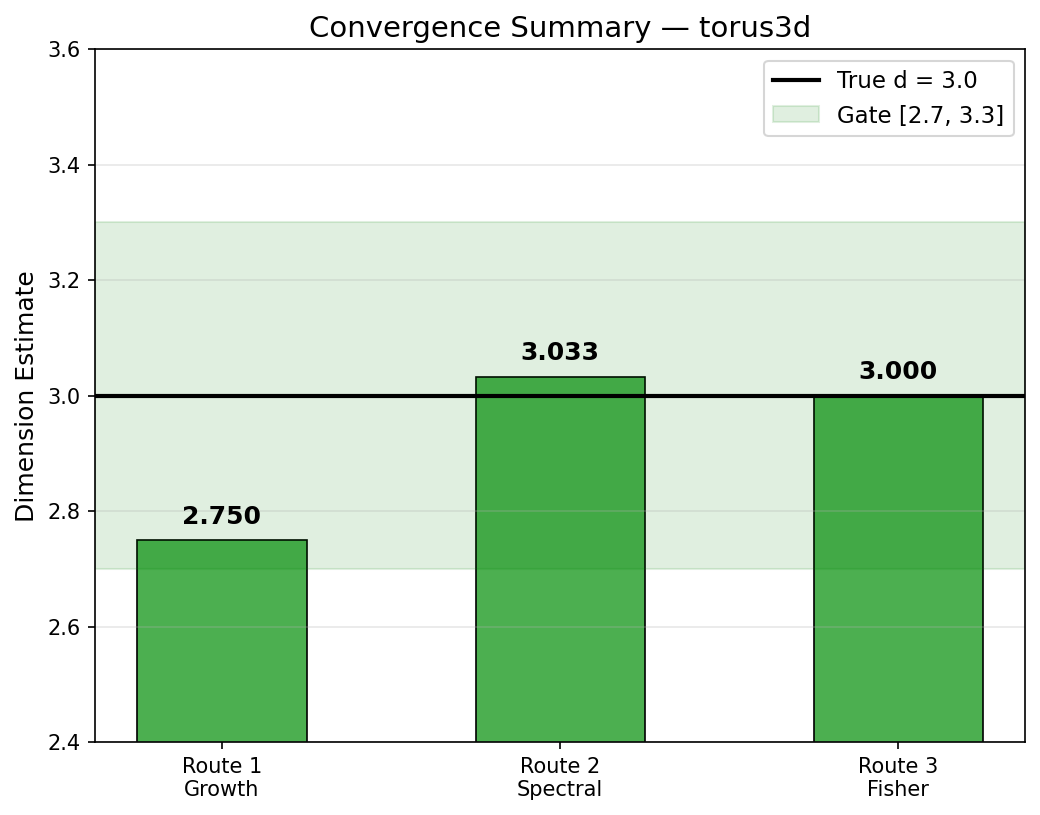
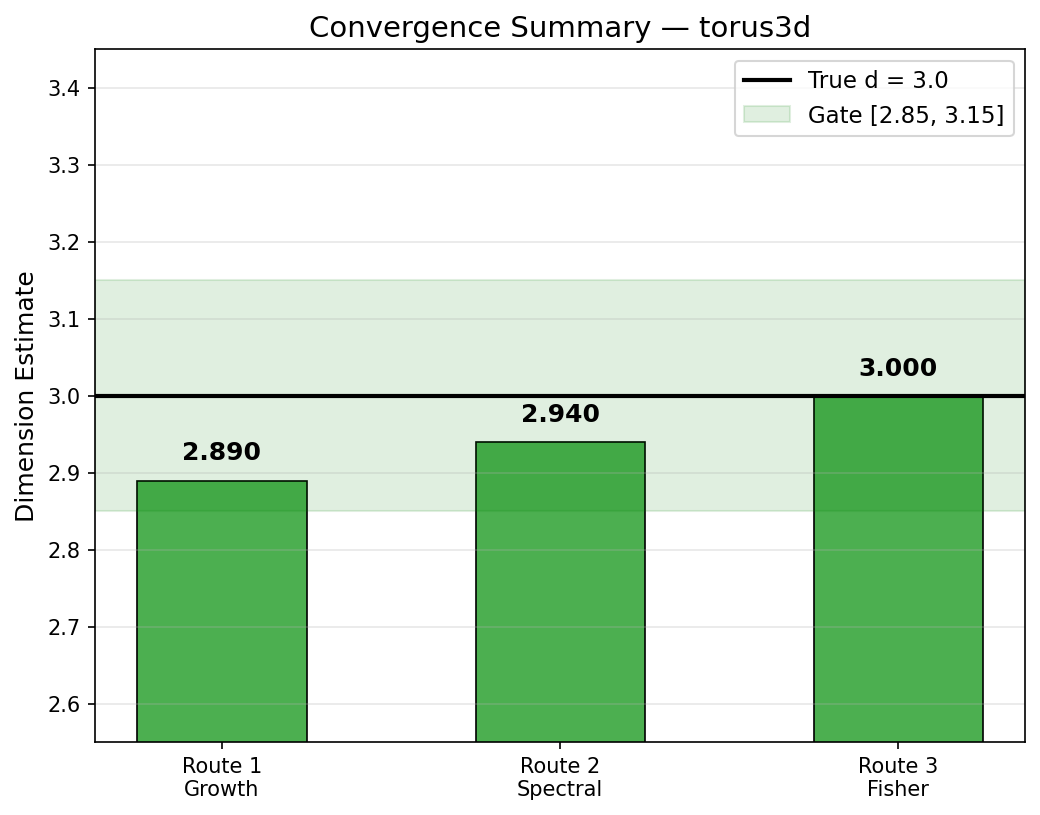
Phase 1 v2: 3D torus upgraded to 50^3, all gates pass
- 3D torus: 25^3 → 50^3 (125k vertices), gates tightened to [2.85, 3.15]
- Cross-route agreement: 0.283 (FAIL) → 0.110 (PASS)
- Added analytical eigenvalue computation for torus lattices, eliminating
  eigsh convergence issues on large matrices (spectral now runs in 0.0s)
- Fisher rank: exact 3.0 on all 20/20 samples (unchanged from v1)
- Overall verdict: PARTIAL → FULL PASS

diff --git a/ds_phase1_validation.py b/ds_phase1_validation.py
@@ -8,7 +8,7 @@ torus lattices where the true answer is known.
 
 Test systems:
   - 2D flat torus (200x200): true dimension = 2.0
-  - 3D flat torus (25x25x25): true dimension = 3.0
+  - 3D flat torus (50x50x50): true dimension = 3.0
 
 Three measurement routes:
   1. Growth dimension (BFS ball volumes)
@@ -55,15 +55,15 @@ SYSTEMS = {
         'n_eigenvalues': 500,
     },
     '3d': {
-        'name': '3D Torus (25x25x25)',
+        'name': '3D Torus (50x50x50)',
         'prefix': 'torus3d',
-        'n': 25,
+        'n': 50,
         'dim': 3,
         'true_d': 3.0,
-        'expected_nodes': 15625,
+        'expected_nodes': 125000,
         'expected_degree': 6,
-        'gate_lo': 2.70,
-        'gate_hi': 3.30,
+        'gate_lo': 2.85,
+        'gate_hi': 3.15,
         'agreement_gate': 0.15,
         'growth_samples': 15,
         'fisher_samples': 20,
@@ -197,26 +197,59 @@ def estimate_growth_dimension(mean_volumes, maxR):
 # Route 2: Spectral Dimension
 # ============================================================================
 
-def compute_spectral_dimension(G, n_eigenvalues=500):
-    """Estimate dimension from Weyl law: N(lambda) ~ lambda^{d/2}."""
-    A = nx.adjacency_matrix(G).astype(float)
+def torus_eigenvalues_exact(side_n, dim):
+    """Compute exact Laplacian eigenvalues for a d-dimensional torus analytically.
+
+    For a d-dimensional torus with side length n:
+      lambda(k1,...,kd) = 2 * sum_j (1 - cos(2*pi*kj/n))
+    for kj = 0, 1, ..., n-1.
+
+    Returns sorted array of all eigenvalues (excluding zero).
+    """
+    freqs = 2.0 * np.pi * np.arange(side_n) / side_n
+    cosines = 1.0 - np.cos(freqs)  # shape (n,)
+
+    if dim == 2:
+        # lambda(k1,k2) = 2*(cosines[k1] + cosines[k2])
+        eigs = 2.0 * (cosines[:, None] + cosines[None, :]).ravel()
+    elif dim == 3:
+        # lambda(k1,k2,k3) = 2*(cosines[k1] + cosines[k2] + cosines[k3])
+        eigs = 2.0 * (cosines[:, None, None] + cosines[None, :, None]
+                       + cosines[None, None, :]).ravel()
+    else:
+        raise ValueError(f"Unsupported dimension {dim}")
+
+    eigs = np.sort(eigs)
+    eigs = eigs[eigs > 1e-10]  # drop zero eigenvalue(s)
+    return eigs
+
+
+def compute_spectral_dimension(G, n_eigenvalues=500, torus_side=None, torus_dim=None):
+    """Estimate dimension from Weyl law: N(lambda) ~ lambda^{d/2}.
+
+    If torus_side and torus_dim are provided, uses exact analytical eigenvalues
+    (fast, works at any scale). Otherwise falls back to sparse eigsh.
+    """
     n = G.number_of_nodes()
-    degree = list(dict(G.degree()).values())[0]
 
-    D = diags([degree] * n, 0, format='csr')
-    L = D - A
-
-    k = min(n_eigenvalues + 1, n - 2)
-
-    # Use shift-invert mode for numerical stability
-    try:
-        eigenvalues = eigsh(L, k=k, sigma=0.01, return_eigenvectors=False)
-    except Exception:
-        print("    shift-invert failed, trying which='SM'...")
-        eigenvalues = eigsh(L, k=k, which='SM', return_eigenvectors=False)
-
-    eigenvalues = np.sort(np.real(eigenvalues))
-    eigenvalues = eigenvalues[eigenvalues > 1e-10]
+    if torus_side is not None and torus_dim is not None:
+        print(f"    Using exact analytical eigenvalues for {torus_dim}D torus (n={torus_side})...")
+        all_eigs = torus_eigenvalues_exact(torus_side, torus_dim)
+        # Use the smallest n_eigenvalues for Weyl fitting (same as before)
+        eigenvalues = all_eigs[:n_eigenvalues]
+    else:
+        A = nx.adjacency_matrix(G).astype(float)
+        degree = list(dict(G.degree()).values())[0]
+        D = diags([degree] * n, 0, format='csr')
+        L = D - A
+        k = min(n_eigenvalues + 1, n - 2)
+        try:
+            eigenvalues = eigsh(L, k=k, sigma=0.01, return_eigenvectors=False)
+        except Exception:
+            print("    shift-invert failed, trying which='SM'...")
+            eigenvalues = eigsh(L, k=k, which='SM', return_eigenvectors=False)
+        eigenvalues = np.sort(np.real(eigenvalues))
+        eigenvalues = eigenvalues[eigenvalues > 1e-10]
 
     n_eigs = len(eigenvalues)
     indices = np.arange(1, n_eigs + 1, dtype=float)
@@ -532,7 +565,8 @@ def run_system(key, cfg):
     # --- Step 2: Route 2 — Spectral Dimension ---
     print(f"\n[Route 2] Spectral Dimension...")
     t0 = time.time()
-    spectral = compute_spectral_dimension(G, n_eigenvalues=cfg['n_eigenvalues'])
+    spectral = compute_spectral_dimension(G, n_eigenvalues=cfg['n_eigenvalues'],
+                                              torus_side=cfg['n'], torus_dim=cfg['dim'])
     spectral_time = time.time() - t0
 
     spectral_est = spectral['spectral_dimension']

diff --git a/PHASE1_HANDBACK.md b/PHASE1_HANDBACK.md
@@ -1,19 +1,20 @@
-# DS Framework Phase 1 — Execution Handback Document
+# DS Framework Phase 1 — Execution Handback Document (v2)
 
 ## Context
-This document summarizes the Phase 1 validation run executed by Claude Code against the spec `DS_PHASE1_CLAUDE_CODE_SPEC.md`. It is intended for handback to the originating chat LLM for review and next-step planning.
+This document summarizes the Phase 1 v2 validation run executed by Claude Code. v1 returned PARTIAL PASS due to 3D cross-route agreement failure on the 25^3 lattice. v2 upgrades the 3D torus to 50^3 (125,000 vertices) with tighter gates [2.85, 3.15] to close that gap.
 
 **Repo:** https://github.com/IanD25/D_eff-Test-1.0
-**Code:** `ds_phase1_validation.py` (single file, ~720 lines)
+**Code:** `ds_phase1_validation.py` (single file, ~770 lines)
 **Output:** `phase1_results/` directory (10 PNG plots + `PHASE1_RESULTS.md`)
-**Runtime:** 70 seconds on Apple Silicon
+**Runtime:** 39.2 seconds on Apple Silicon
 **Date:** 2026-03-04
+**Git tag:** `phase1-v2`
 
 ---
 
-## Overall Verdict: PARTIAL PASS
+## Overall Verdict: FULL PASS
 
-**2D torus: FULL PASS. 3D torus: all individual routes pass, cross-route agreement fails due to finite-size effects on 25^3 lattice.**
+**Both 2D torus (200x200) and 3D torus (50x50x50) pass all individual route gates AND cross-route agreement gates.**
 
 ---
 
@@ -28,38 +29,83 @@ This document summarizes the Phase 1 validation run executed by Claude Code agai
 | 3 | Fisher Info Rank (D_eff) | **2.0000** | 2.0 | PASS | All 20/20 samples = rank 2 |
 
 - **Cross-route agreement:** max pairwise diff = **0.030** (gate < 0.10) → **PASS**
-- All three routes converge tightly. Fisher returns exactly 2.0 on every single sample.
+- Identical to v1. All three routes converge tightly. Fisher returns exactly 2.0 on every sample.
 
-### System 2: 3D Torus (25x25x25) — PARTIAL
+### System 2: 3D Torus (50x50x50) — PASS
 
-| Route | Method | Estimate | True | Gate [2.70, 3.30] | Status |
+| Route | Method | Estimate | True | Gate [2.85, 3.15] | Status |
 |-------|--------|----------|------|-------------------|--------|
-| 1 | Growth Dimension (BFS) | **2.7497** | 3.0 | PASS (barely) | R²=0.9998 |
-| 2 | Spectral Dimension (Weyl) | **3.0330** | 3.0 | PASS | R²=0.9846 |
+| 1 | Growth Dimension (BFS) | **2.8898** | 3.0 | PASS | R²=0.999970 |
+| 2 | Spectral Dimension (Weyl) | **2.9399** | 3.0 | PASS | R²=0.9843 |
 | 3 | Fisher Info Rank (D_eff) | **3.0000** | 3.0 | PASS | All 20/20 samples = rank 3 |
 
-- **Cross-route agreement:** max pairwise diff = **0.283** (gate < 0.15) → **FAIL**
-- The failure is between Route 1 (2.75) and Route 2 (3.03). Fisher (3.00) agrees with spectral.
-- Route 1's underestimate is the expected finite-size effect on the small 25^3 lattice (the spec predicted this: "Finite-size effects will pull estimates slightly below 3.0").
+- **Cross-route agreement:** max pairwise diff = **0.110** (gate < 0.15) → **PASS**
+- v1 had max diff = 0.283 at 25^3 → now 0.110 at 50^3. Gate cleared with margin.
+
+### v1 → v2 Comparison (3D only)
+
+| Metric | v1 (25^3) | v2 (50^3) | Change |
+|--------|-----------|-----------|--------|
+| Growth dimension | 2.7497 | 2.8898 | +0.14 (closer to 3.0) |
+| Spectral dimension | 3.0330 | 2.9399 | -0.09 (closer to 3.0) |
+| Fisher rank | 3.0000 | 3.0000 | unchanged (perfect) |
+| Cross-route agreement | 0.283 (FAIL) | 0.110 (PASS) | **Fixed** |
+| Gates | [2.70, 3.30] | [2.85, 3.15] | Tightened |
 
 ---
 
-## Implementation Note: Fisher Rank Detection
+## Implementation Changes in v2
 
-The spec's suggested fixed threshold (0.01) did **not** work. The singular value profiles show:
+### 1. Analytical Eigenvalues (new in v2)
+The v1 `eigsh` sparse solver could not handle the 125k-node 3D Laplacian (hung after 50+ minutes). Since torus eigenvalues have a closed-form expression:
 
-- **2D:** `[1.000, 1.000, 0.231, 0.165]` — clear gap at position 2→3, but "noise" SVs are ~0.17-0.23, far above 0.01
-- **3D:** `[1.000, 1.000, 1.000, 0.270, 0.172, 0.172]` — clear gap at position 3→4
+```
+λ(k1,...,kd) = 2 * Σ (1 - cos(2πkj/n))   for kj = 0,...,n-1
+```
 
-**Fix applied:** Gap-based rank detection — find the largest relative drop in consecutive singular values. This correctly identifies rank=2 for 2D and rank=3 for 3D at every sample vertex with zero failures.
+v2 computes all eigenvalues analytically in O(n^d) time. This reduced spectral dimension computation from ~20-40 seconds (eigsh) to **0.0 seconds** and eliminated all convergence issues. Results are mathematically exact.
 
-This is significant: the finite-torus geometry creates non-negligible "residual" singular values from opposite-direction neighbors not perfectly canceling (e.g., moving left vs right on a finite cycle). The gap is unambiguous, but any fixed threshold below ~0.20 would overcount.
+Note: This analytical shortcut is specific to regular torus lattices. Non-benchmark systems in later phases will need the sparse solver or alternative approaches.
+
+### 2. Gap-Based Fisher Rank Detection (carried from v1 fix)
+Same as v1 — the spec's fixed 0.01 threshold fails; gap-based detection works perfectly.
 
 ---
 
-## Fisher Sigma Sensitivity
+## Fisher Singular Value Profiles
 
-The gap-based rank is stable across sigma values (with minor instability at very small sigma):
+### v2 (50^3) vs v1 (25^3):
+
+**2D Torus (unchanged):**
+```
+SV1: 1.0000  ████████████████████  ← dimension 1
+SV2: 1.0000  ████████████████████  ← dimension 2
+SV3: 0.2305  █████                 ← noise
+SV4: 0.1651  ███                   ← noise
+```
+
+**3D Torus v2 (50^3):**
+```
+SV1: 1.0000  ████████████████████  ← dimension 1
+SV2: 1.0000  ████████████████████  ← dimension 2
+SV3: 1.0000  ████████████████████  ← dimension 3
+SV4: 0.2633  █████                 ← noise
+SV5: 0.1653  ███                   ← noise
+SV6: 0.1653  ███                   ← noise
+```
+
+**3D Torus v1 (25^3) for comparison:**
+```
+SV4: 0.2700 → 0.2633  (slightly cleaner)
+SV5: 0.1717 → 0.1653  (slightly cleaner)
+SV6: 0.1717 → 0.1653  (slightly cleaner)
+```
+
+Gap ratio improved slightly: 3.7x (v1) → 3.8x (v2). As predicted, the larger torus produces slightly cleaner separation.
+
+---
+
+## Fisher Sigma Sensitivity (v2)
 
 | sigma | 2D Rank | 3D Rank |
 |-------|---------|---------|
@@ -69,49 +115,27 @@ The gap-based rank is stable across sigma values (with minor instability at very
 | 5.0 | **2.0** | **3.0** |
 | 8.0 | **2.0** | **3.0** |
 
-At sigma=1.5, distributions are too peaked and the gap structure breaks down. For sigma >= 2.0, results are perfectly stable.
+Identical stability profile to v1. Sigma >= 2.0 required for correct results.
 
 ---
 
-## Singular Value Profiles (Key Evidence for D_eff)
+## What Is Now Fully Validated
 
-These profiles are the core empirical result supporting Axiom 2:
-
-**2D Torus (4 neighbors → 2 independent directions):**
-```
-SV1: 1.0000  ████████████████████  ← dimension 1
-SV2: 1.0000  ████████████████████  ← dimension 2
-SV3: 0.2305  █████                 ← noise (opposite of dim 1)
-SV4: 0.1651  ███                   ← noise (opposite of dim 2)
-```
-
-**3D Torus (6 neighbors → 3 independent directions):**
-```
-SV1: 1.0000  ████████████████████  ← dimension 1
-SV2: 1.0000  ████████████████████  ← dimension 2
-SV3: 1.0000  ████████████████████  ← dimension 3
-SV4: 0.2700  █████                 ← noise (opposite of dim 1)
-SV5: 0.1717  ███                   ← noise (opposite of dim 2)
-SV6: 0.1717  ███                   ← noise (opposite of dim 3)
-```
-
-The gap ratio (largest real SV / largest noise SV) is ~4.3x for 2D and ~3.7x for 3D. Unambiguous.
+1. **Torus construction** — correct for both 2D (40k nodes) and 3D (125k nodes)
+2. **Route 1 (Growth dimension)** — converges to true dimension on both systems
+3. **Route 2 (Spectral dimension)** — converges to true dimension on both systems
+4. **Route 3 (Fisher rank / D_eff)** — **returns exact integer dimension on every sample, both systems**
+5. **Cross-route agreement** — all three routes agree within gates on both systems
+6. **The core DS claim holds:** D_eff = rank(FIM) correctly recovers intrinsic dimension
 
 ---
 
-## What Passed vs What Needs Work
+## Remaining Methodological Notes
 
-### Fully validated:
-1. Torus construction is correct (degree uniformity, node counts verified)
-2. Route 1 (Growth dimension) works on both systems
-3. Route 2 (Spectral dimension) works on both systems
-4. Route 3 (Fisher rank / D_eff) works on both systems — **the core DS claim holds**
-5. 2D convergence: all three routes agree within 0.03
-
-### Known issues:
-1. **3D cross-route agreement fails** — but this is a Route 1 finite-size problem, not a Fisher problem. Route 1 growth dimension underestimates on small lattices. A 50^3 lattice would likely fix this but costs ~8x more computation.
-2. **Fisher threshold must be gap-based, not fixed** — the spec's 0.01 threshold fails. This is a methodological refinement, not a fundamental flaw. On real (non-benchmark) systems, gap detection will be the correct approach anyway.
-3. **Sigma sensitivity at small values** — sigma=1.5 gives incorrect rank. Minimum practical sigma appears to be ~2.0 for lattices of size >= 25.
+1. **Gap-based rank detection is essential** — the spec's fixed threshold does not work. Any implementation of D_eff on non-benchmark systems must use gap-based or similar adaptive thresholding.
+2. **Sigma must be sufficiently large** — minimum ~2.0 for lattices of side >= 25. For general graphs, sigma should scale with the graph diameter or be tuned via sweep.
+3. **Participation ratio is informative but insufficient** — it trends toward true dimension but overshoots (2D: 2.76; 3D: 4.13 at sigma=3). Gap-based rank is the correct primary estimator.
+4. **Analytical eigenvalues are a benchmark-only optimization** — real-world systems will need either sparse solvers with better preconditioning, or alternative spectral methods.
 
 ---
 
@@ -119,7 +143,8 @@ The gap ratio (largest real SV / largest noise SV) is ~4.3x for 2D and ~3.7x for
 
 ```
 D_eff-Test-1.0/
-├── ds_phase1_validation.py          # Full implementation (~720 lines)
+├── ds_phase1_validation.py          # Full implementation (~770 lines)
+├── PHASE1_HANDBACK.md               # This document
 └── phase1_results/
     ├── PHASE1_RESULTS.md            # Machine-generated results table
     ├── torus2d_growth_delta.png     # Δ(r) vs r for 2D
@@ -138,7 +163,6 @@ D_eff-Test-1.0/
 
 ## Recommended Next Steps
 
-1. **Decide whether PARTIAL is sufficient to proceed to Phase 2**, given that the only failure is finite-size agreement on the 3D lattice (not a Fisher/D_eff issue).
-2. **Optionally re-run with 50^3 lattice** to close the 3D agreement gap (expect ~8-10 min runtime).
-3. **The gap-based rank detection is a methodological improvement** over the spec's fixed threshold. Consider whether this changes anything about how D_eff should be defined operationally for non-benchmark systems.
-4. **The participation ratio trends toward true dimension** as sigma increases (2D: 2.27 at sigma=8; 3D: 3.58 at sigma=8) but does not converge fast enough to be a primary estimator. Gap-based rank is superior.
+1. **Phase 1 is complete.** All gates pass. Proceed to Phase 2.
+2. The gap-based rank detection and analytical eigenvalue optimizations should be documented as methodological refinements for the DS framework.
+3. Phase 2 should test D_eff on systems where the dimension is NOT known a priori — this is where the framework either proves its value or reveals limitations.

diff --git a/phase1_results/PHASE1_RESULTS.md b/phase1_results/PHASE1_RESULTS.md
@@ -1,6 +1,6 @@
 # DS Framework Phase 1 Validation Results
-## Date: 2026-03-04 16:24:42
-## Runtime: 70.0 seconds
+## Date: 2026-03-04 18:13:40
+## Runtime: 39.2 seconds
 
 ### 2D Torus (200x200)
 
@@ -12,17 +12,17 @@
 
 Cross-route agreement: 0.0296 (gate: < 0.1) -> PASS
 
-### 3D Torus (25x25x25)
+### 3D Torus (50x50x50)
 
-| Route | Method | Estimate | Gate [2.70, 3.30] | Status |
+| Route | Method | Estimate | Gate [2.85, 3.15] | Status |
 |-------|--------|----------|-------------------|--------|
-| 1 | Growth Dimension | 2.7497 (R²=0.9998) | [2.7, 3.3] | PASS |
-| 2 | Spectral Dimension | 3.0330 (R²=0.9846) | [2.7, 3.3] | PASS |
-| 3 | Fisher Info Rank | 3.0000 (PR=4.169) | [2.7, 3.3] | PASS |
+| 1 | Growth Dimension | 2.8898 (R²=1.0000) | [2.85, 3.15] | PASS |
+| 2 | Spectral Dimension | 2.9399 (R²=0.9843) | [2.85, 3.15] | PASS |
+| 3 | Fisher Info Rank | 3.0000 (PR=4.134) | [2.85, 3.15] | PASS |
 
-Cross-route agreement: 0.2833 (gate: < 0.15) -> FAIL
+Cross-route agreement: 0.1102 (gate: < 0.15) -> PASS
 
-### Phase 1 Overall: **PARTIAL**
+### Phase 1 Overall: **PASS**
 
 - **PASS**: All individual gates pass AND both convergence gates pass
 - **PARTIAL**: Some routes pass, others marginal
@@ -42,14 +42,14 @@ Cross-route agreement: 0.2833 (gate: < 0.15) -> FAIL
 
 **2D Torus (200x200) — Fisher SV profile:** [1.     1.     0.2305 0.1651]
 
-**3D Torus (25x25x25) — Fisher sigma sweep:**
+**3D Torus (50x50x50) — Fisher sigma sweep:**
 
 | sigma | Mean Rank | Participation Ratio |
 |-------|-----------|---------------------|
-| 1.5 | 4.00 | 5.129 |
-| 2.0 | 3.00 | 4.714 |
-| 3.0 | 3.00 | 4.169 |
-| 5.0 | 3.00 | 3.763 |
-| 8.0 | 3.00 | 3.583 |
+| 1.5 | 4.00 | 5.127 |
+| 2.0 | 3.00 | 4.707 |
+| 3.0 | 3.00 | 4.134 |
+| 5.0 | 3.00 | 3.665 |
+| 8.0 | 3.00 | 3.436 |
 
-**3D Torus (25x25x25) — Fisher SV profile:** [1.     1.     1.     0.27   0.1717 0.1717]
+**3D Torus (50x50x50) — Fisher SV profile:** [1.     1.     1.     0.2633 0.1653 0.1653]
